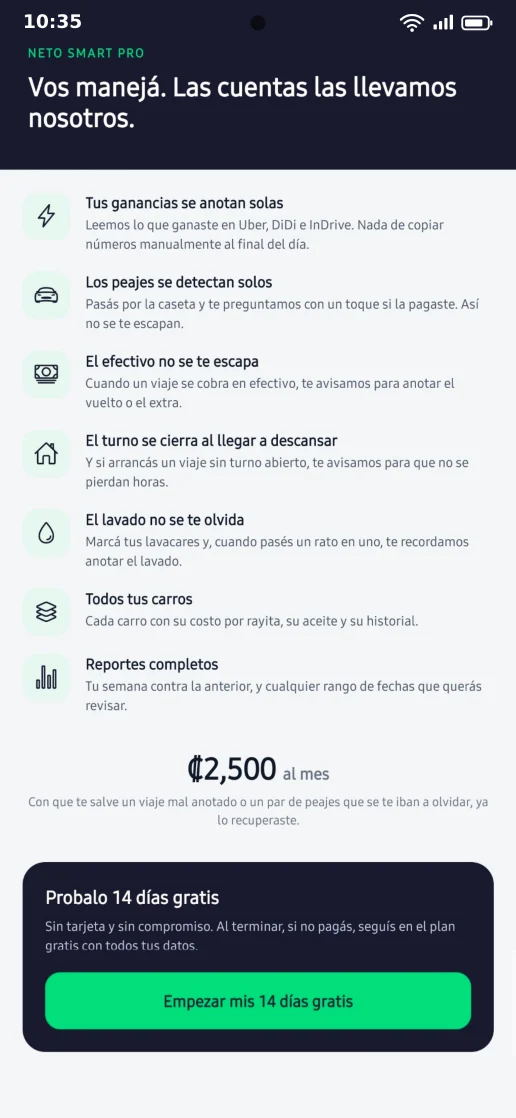
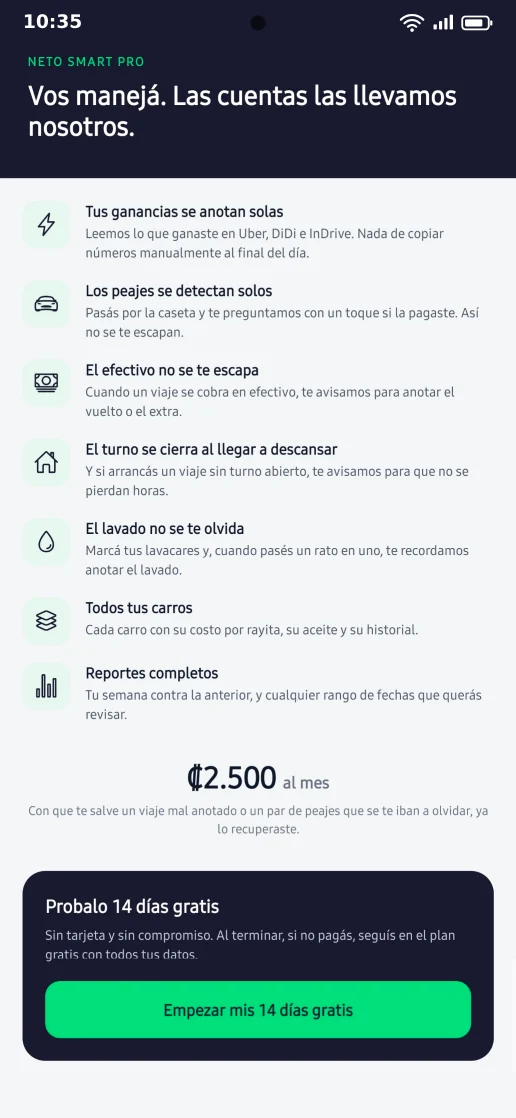
Ponerlo al día con la app v3.11.145
Privacidad: cuota del préstamo y respuestas de cómo pagás. Inicio: el
ejemplo usa Costos fijos en lugar de Desgaste y hay una tarjeta nueva sobre
lo que el carro cuesta. Captura de Pro con ₡2.500. fechaLegal al 8-oct.

Claude-Session: https://claude.ai/code/session_014iuPz6QnCKuBdxeEqMQoS4

diff --git a/src/styles/global.css b/src/styles/global.css
@@ -532,6 +532,11 @@ section.apretada { padding: 2rem 0; }
 @media (min-width: 900px) {
   .rejilla.tres { grid-template-columns: repeat(3, 1fr); }
 }
+/* Una tarjeta suelta al final de la rejilla ocupa toda la fila, para que no
+   quede una sola a medias. */
+@media (min-width: 620px) {
+  .rejilla > .tarjeta.ancha { grid-column: 1 / -1; }
+}
 
 .tarjeta {
   position: relative;

diff --git a/src/config/site.ts b/src/config/site.ts
@@ -97,7 +97,7 @@ export const sitio = {
   tokenAnalytics: '44ec51eca021444a83f4c28feebd6d2b' as string | null,
 
   /** Fecha de la ultima revision de las paginas legales. */
-  fechaLegal: '5 de octubre de 2026',
+  fechaLegal: '8 de octubre de 2026',
 
   /**
    * Simbolo de marca que acompana al nombre en el pie.

diff --git a/PENDIENTES.md b/PENDIENTES.md
@@ -161,6 +161,11 @@ listas.
   sin placa ni nombre. Se dejan así, a propósito.
 - En «Mi garaje» las placas y el aceite están tapados con barras sólidas; las
   originales no están en el repositorio.
+- La de **Pro** ya muestra **₡2.500**, con punto de miles, como la app desde la
+  v3.11.145 (actualizada el 8-oct). **«Hoy»** (₡22,769) y **«Mi garaje»**
+  (₡2,828 por barra) siguen con coma, porque son de antes de ese cambio. No es
+  grave, pero si querés que las tres coincidan con la app, pasame capturas
+  nuevas de esas dos y las reemplazo igual.
 - La barra de estado de Android de las tres está dibujada (hora y batería fijas).
 - **Opcional:** la pregunta «¿Quién lo paga?» del peaje de InDrive, junto al
   diagrama de peajes. Si la agregás, copiá el `<img>` de otra captura en
